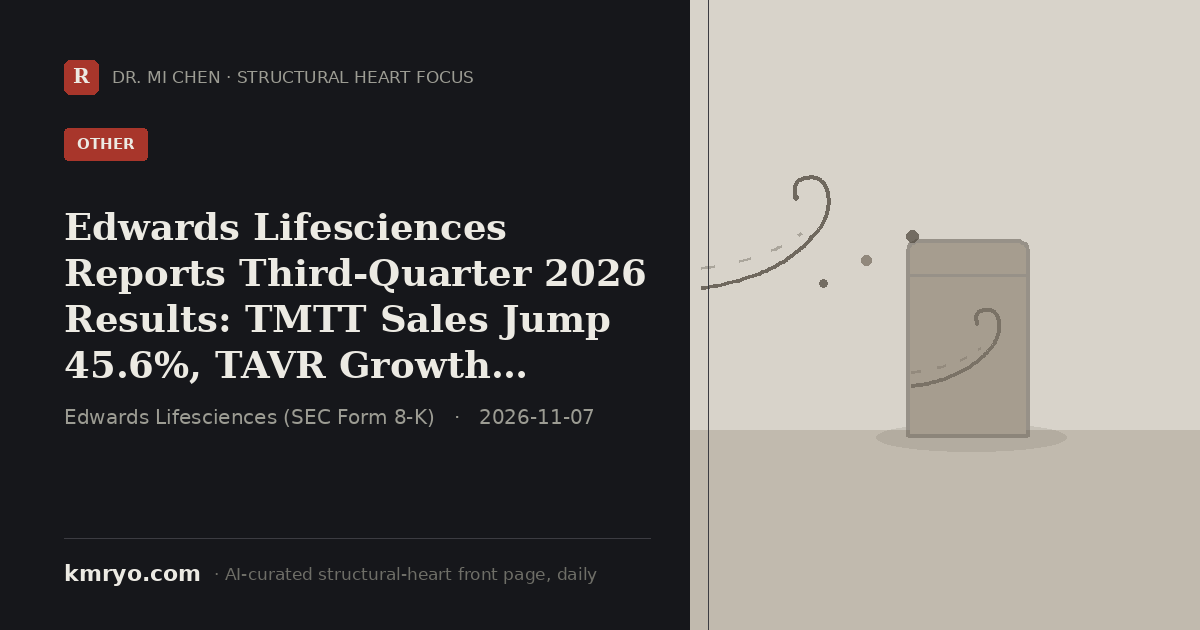
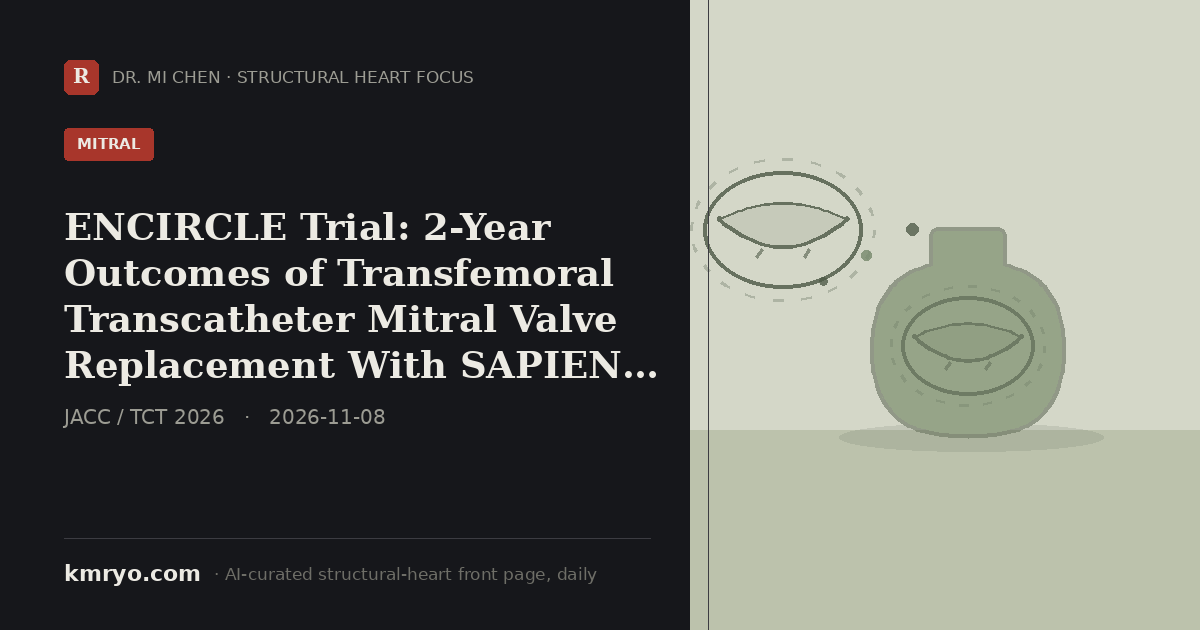
pulse: 2026-11-08 daily update
Claude-Session: https://claude.ai/code/session_01VwCofjiCJspZxL2kmDYwPw

diff --git a/index.html b/index.html
@@ -6,8 +6,8 @@
 <title>Structural Heart Focus — Daily | Dr. Mi Chen</title>
 <meta name="description" content="Structural Heart Focus — the day's most important structural-heart reading (top journals, major meetings and the field's conversation), curated daily by an AI agent from inside the Zurich hybrid room. By Dr. Mi Chen.">
 <!-- Social share card. Regenerated daily by the pulse agent (pulse/make_share_card.py); og:title/description updated to the day's top story so LinkedIn/WeChat/X show today's headline, not a static portrait. -->
-<meta property="og:title" content="Edwards Lifesciences Reports Third-Quarter 2026 Results: TMTT Sales Jump 45.6%, TAVR Growth Accelerates, Full-Year Guidance Raised">
-<meta property="og:description" content="Edwards' Q3 2026 results show TMTT (transcatheter mitral/tricuspid) sales up 45.6% in constant currency, outpacing TAVR's 8.8% growth, as the company raises its full-year 2026 guidance.">
+<meta property="og:title" content="ENCIRCLE Trial: 2-Year Outcomes of Transfemoral Transcatheter Mitral Valve Replacement With SAPIEN M3">
+<meta property="og:description" content="2-year ENCIRCLE data presented at TCT 2026 and published in JACC show durable MR elimination with Edwards' SAPIEN M3 transseptal valve, with a 35.6% composite death/HF-hospitalization rate.">
 <meta property="og:image" content="https://www.kmryo.com/pulse/img/share/card.png">
 <meta property="og:image:width" content="1200">
 <meta property="og:image:height" content="630">
@@ -16,8 +16,8 @@
 <meta property="og:type" content="website">
 <meta property="og:site_name" content="kmryo.com · Structural Heart Focus">
 <meta name="twitter:card" content="summary_large_image">
-<meta name="twitter:title" content="Edwards Lifesciences Reports Third-Quarter 2026 Results: TMTT Sales Jump 45.6%, TAVR Growth Accelerates, Full-Year Guidance Raised">
-<meta name="twitter:description" content="Edwards' Q3 2026 results show TMTT (transcatheter mitral/tricuspid) sales up 45.6% in constant currency, outpacing TAVR's 8.8% growth, as the company raises its full-year 2026 guidance.">
+<meta name="twitter:title" content="ENCIRCLE Trial: 2-Year Outcomes of Transfemoral Transcatheter Mitral Valve Replacement With SAPIEN M3">
+<meta name="twitter:description" content="2-year ENCIRCLE data presented at TCT 2026 and published in JACC show durable MR elimination with Edwards' SAPIEN M3 transseptal valve, with a 35.6% composite death/HF-hospitalization rate.">
 <meta name="twitter:image" content="https://www.kmryo.com/pulse/img/share/card.png">
[1 lines of base64/hex data omitted]
 <link rel="preconnect" href="https://fonts.googleapis.com">
